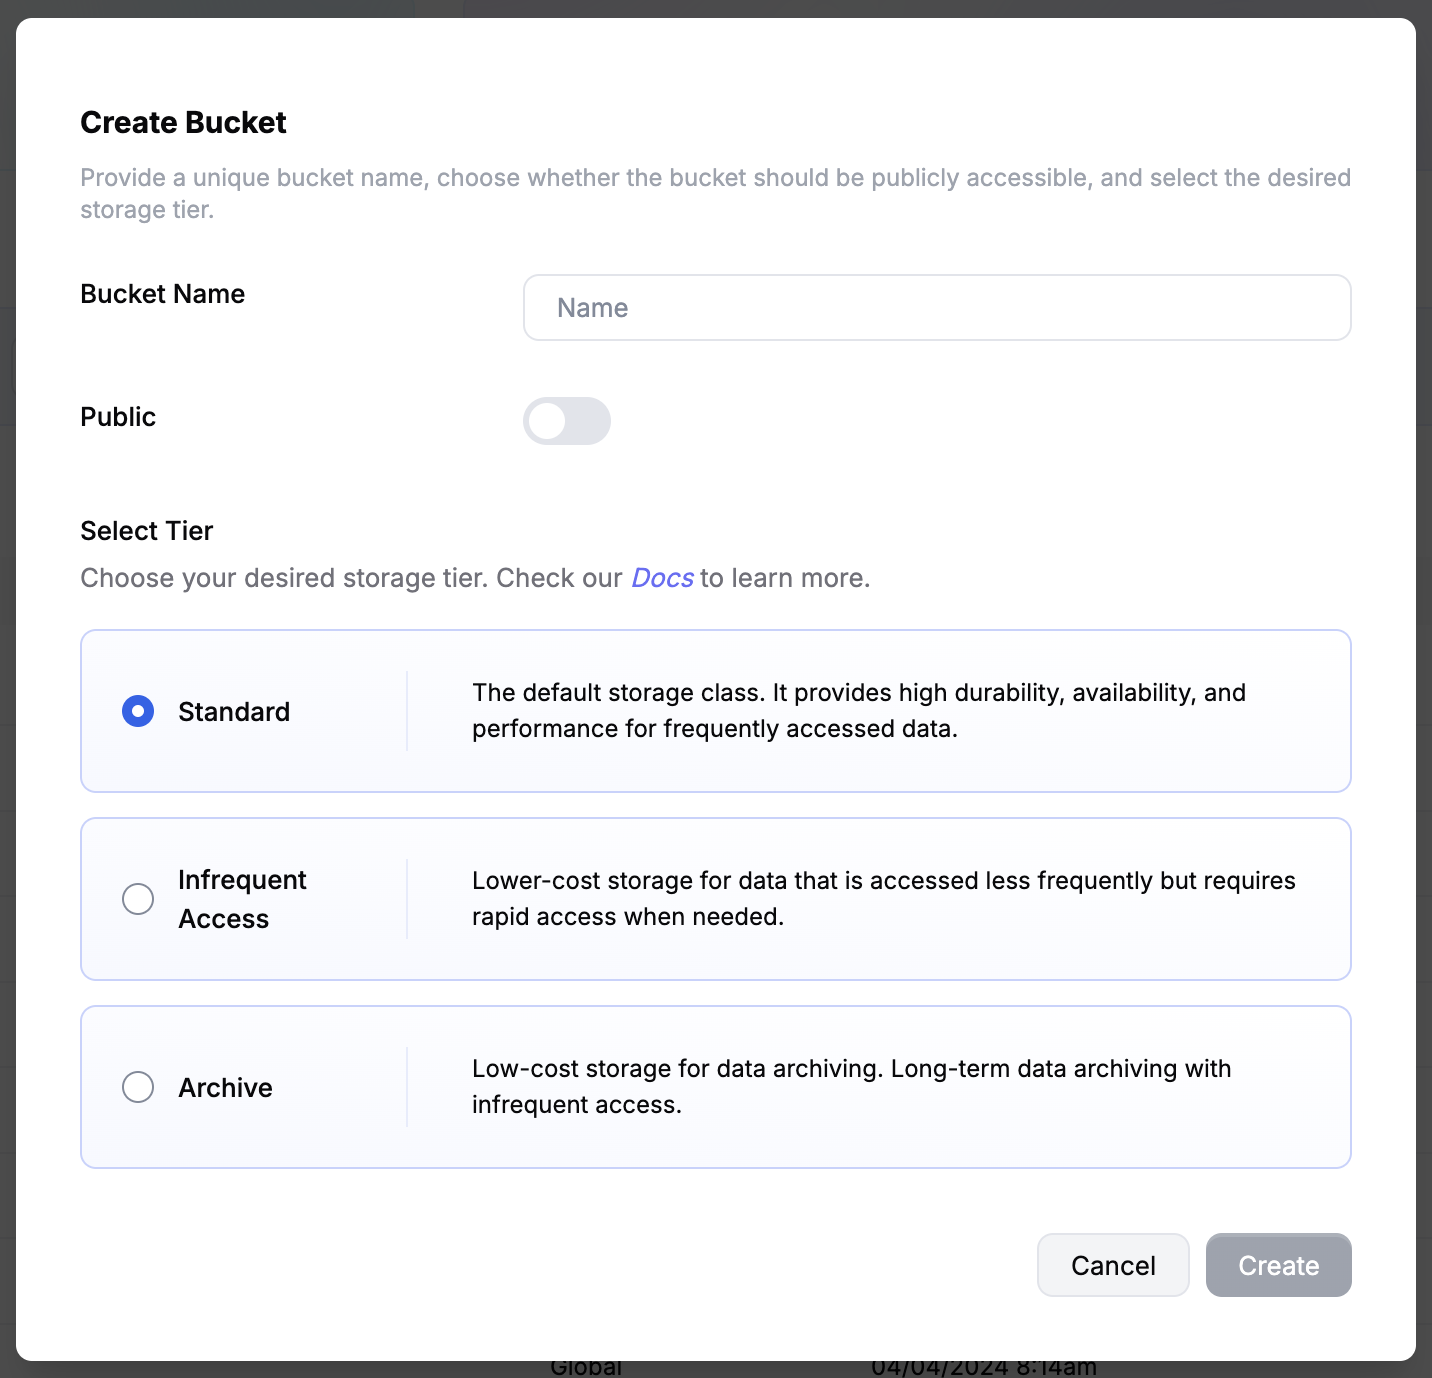
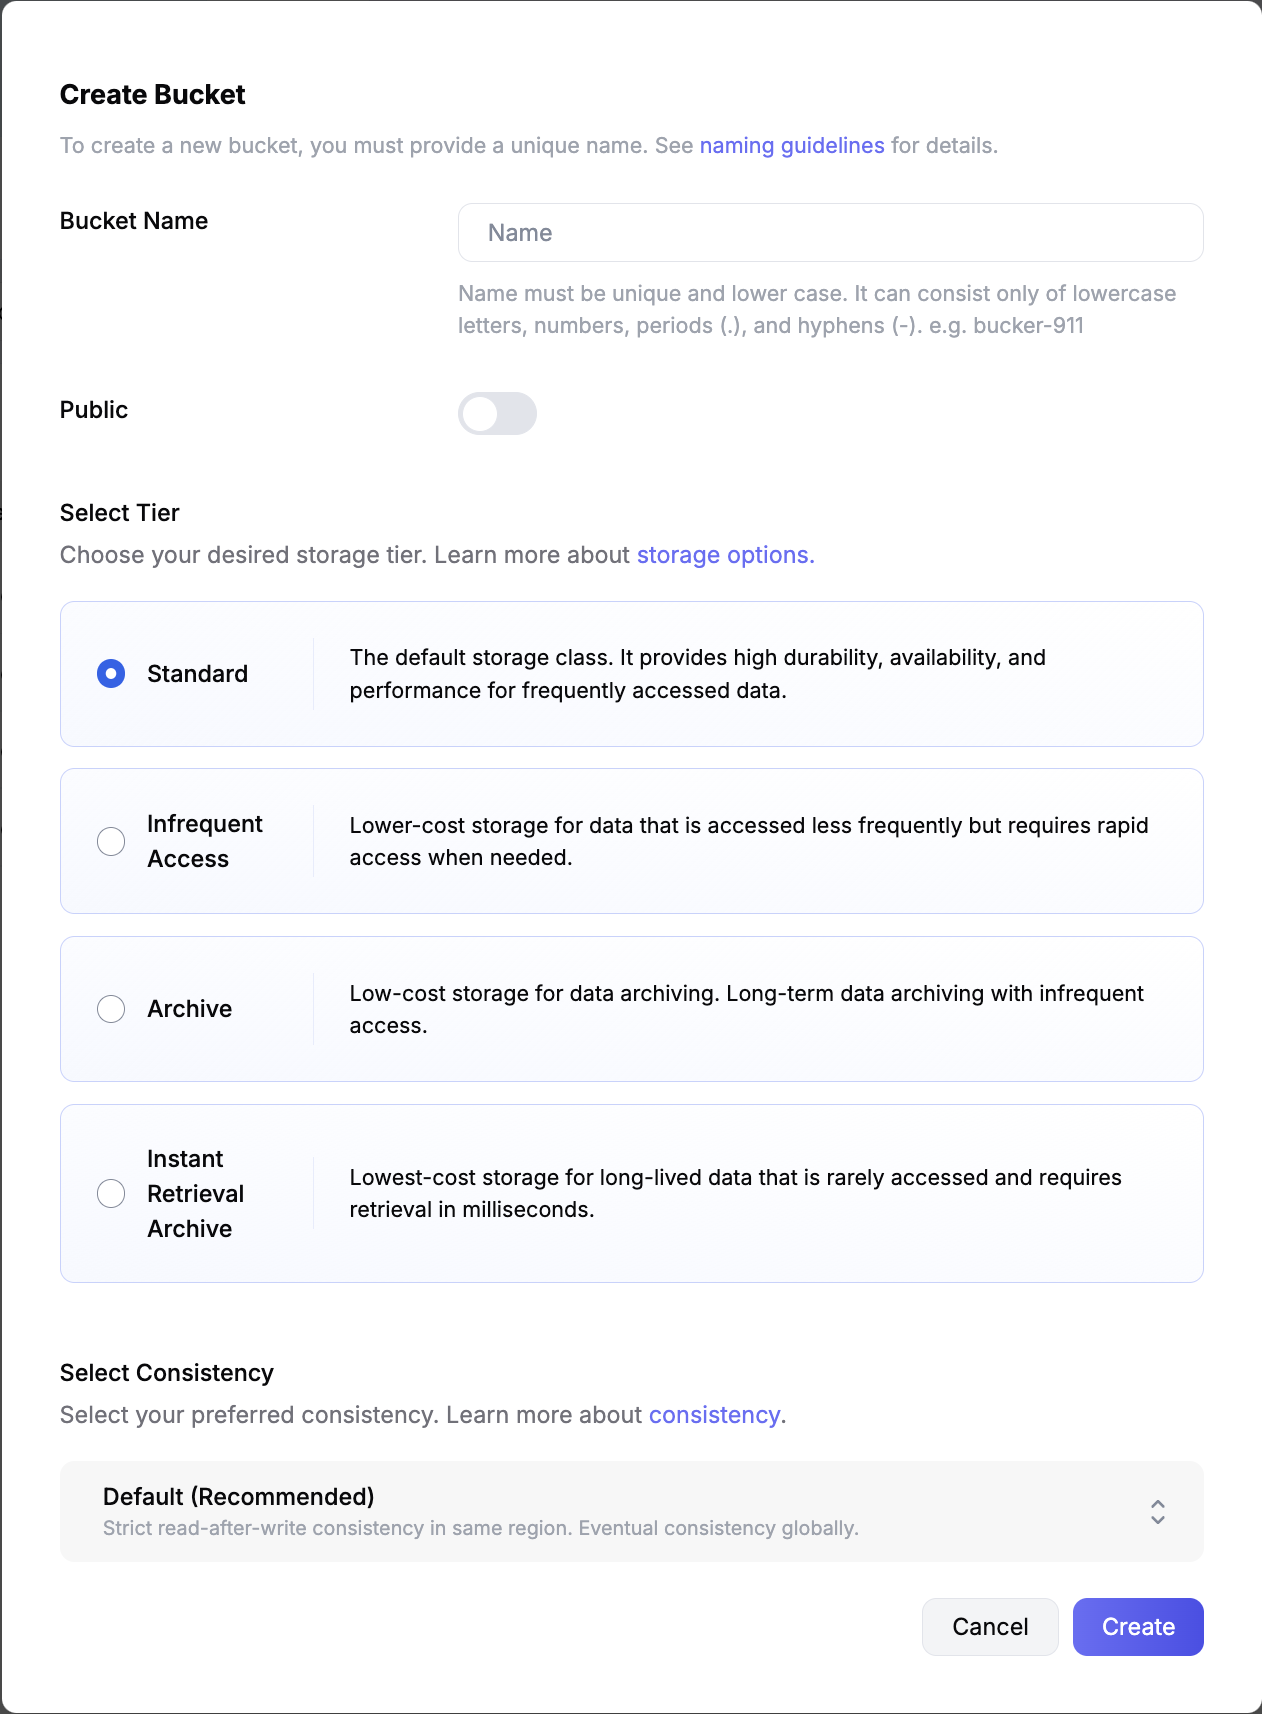
add screenshot

diff --git a/docs/buckets/create-bucket.md b/docs/buckets/create-bucket.md
@@ -25,6 +25,15 @@ uploaded to it. The default tier can be one of the following:
 The default tier can be overridden at the object level. For more information,
 see the [Storage Tiers](../objects/tiers.md) guide.
 
+## Bucket consistency
+
+When you create a bucket, you can choose the consistency model for the bucket.
+The consistency model can be one of the following:
+
+- Strict read-after-write consistency within the same region (default)
+- Strict read-after-write consistency globally (strong consistency). Latency
+  will be higher than the default.
+
 ## Creating a bucket using the Dashboard
 
 To create a bucket using the Tigris Dashboard, follow these steps:
@@ -32,6 +41,8 @@ To create a bucket using the Tigris Dashboard, follow these steps:
 1. Go to [storage.new](https://storage.new/).
 2. Enter a unique bucket name. ([Rules](./bucket-rules.md))
 3. Choose the default tier for the bucket.
+4. Choose the consistency model for the bucket.
+5. Click **Create Bucket**.
 
 ![Create Tigris Bucket](/img/create-bucket.png)
 

diff --git a/docs/objects/consistency.md b/docs/objects/consistency.md
@@ -14,8 +14,10 @@ the bucket level.
 
 At the bucket level, you can set the consistency model for all operations within
 that bucket. The default is strict read-after-write consistency within the same
-region. But you can choose to set it to global strong consistency. This can be
-done when creating the bucket or by updating the bucket settings later.
+region. But you can choose to set it to global strong consistency. The bucket
+consistency can be specified in the
+[bucket configuration](../buckets/create-bucket.md#bucket-consistency) during
+bucket creation time, or by updating the bucket settings later.
 
 ## Request Level Consistency
 
